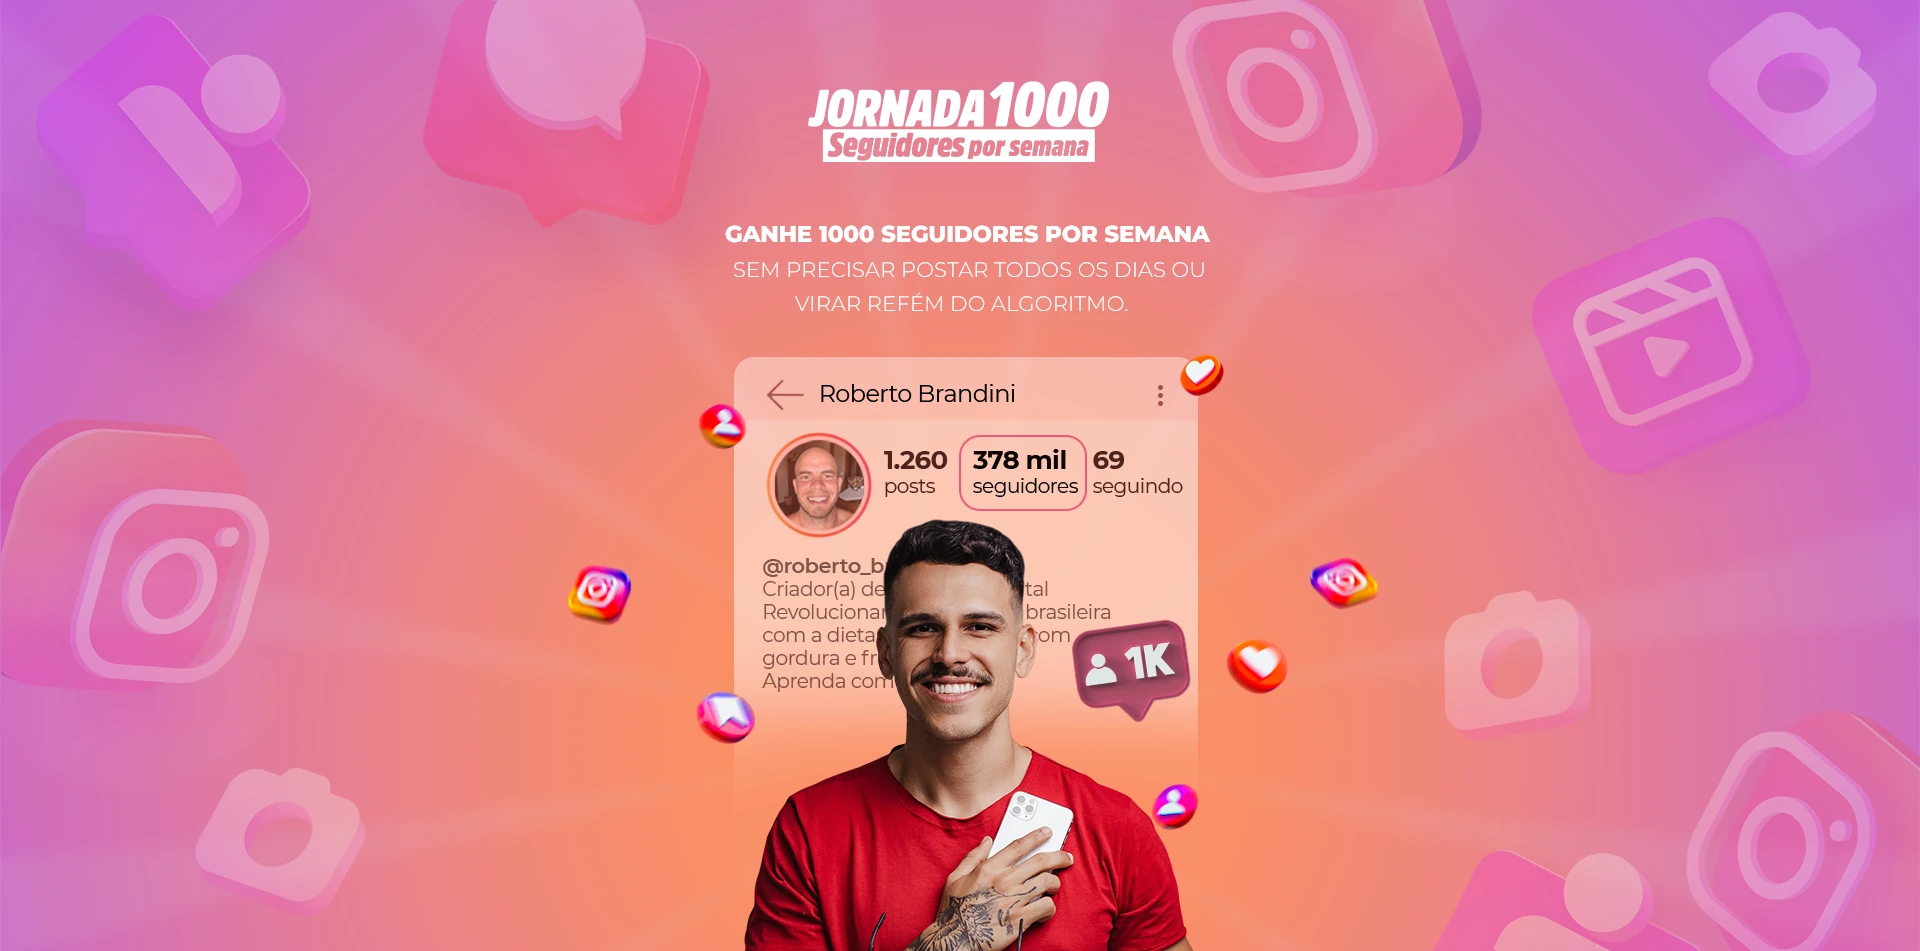
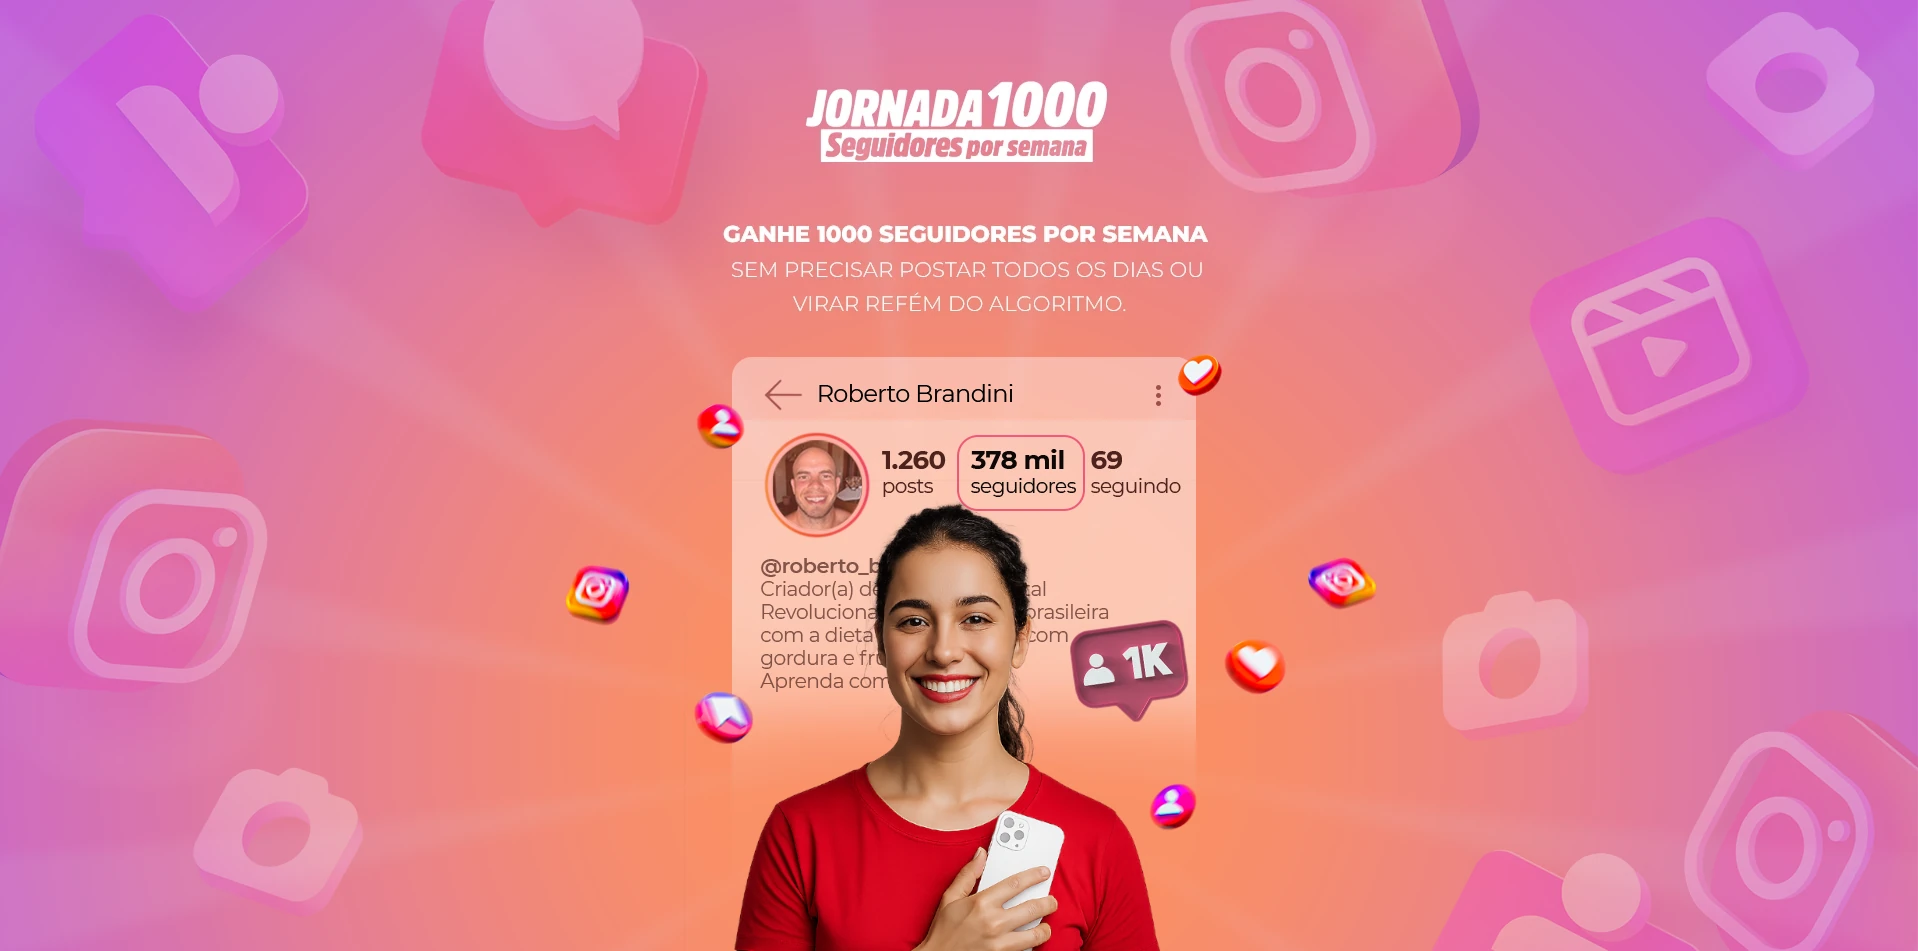
mulher

diff --git a/index.html b/index.html
@@ -336,7 +336,7 @@
             <!-- Imagem centralizada embaixo -->
             <div class="mt-10 flex justify-center">
               <img
-                src="./img/paidorec-1.png"
+                src="./img/maedorec-1.png"
                 alt="Dor principal"
                 class="max-w-full w-[800px] drop-shadow-2xl"
               />
@@ -600,7 +600,7 @@
               <!-- Imagem -->
               <div class="flex-1 flex justify-center">
                 <img
-                  src="./img/paidorec-2.webp"
+                  src="./img/maedorec-2.webp"
                   alt="Foto"
                   class="max-w-sm md:max-w-md"
                 />
@@ -744,7 +744,7 @@
             >
               <!-- Imagem -->
               <div class="flex-1 flex justify-center">
-                <img src="./img/paidorec-3.webp" alt="Oferta" class="w-full" />
+                <img src="./img/maedorec-3.webp" alt="Oferta" class="w-full" />
               </div>
 
               <!-- Texto e preço -->
